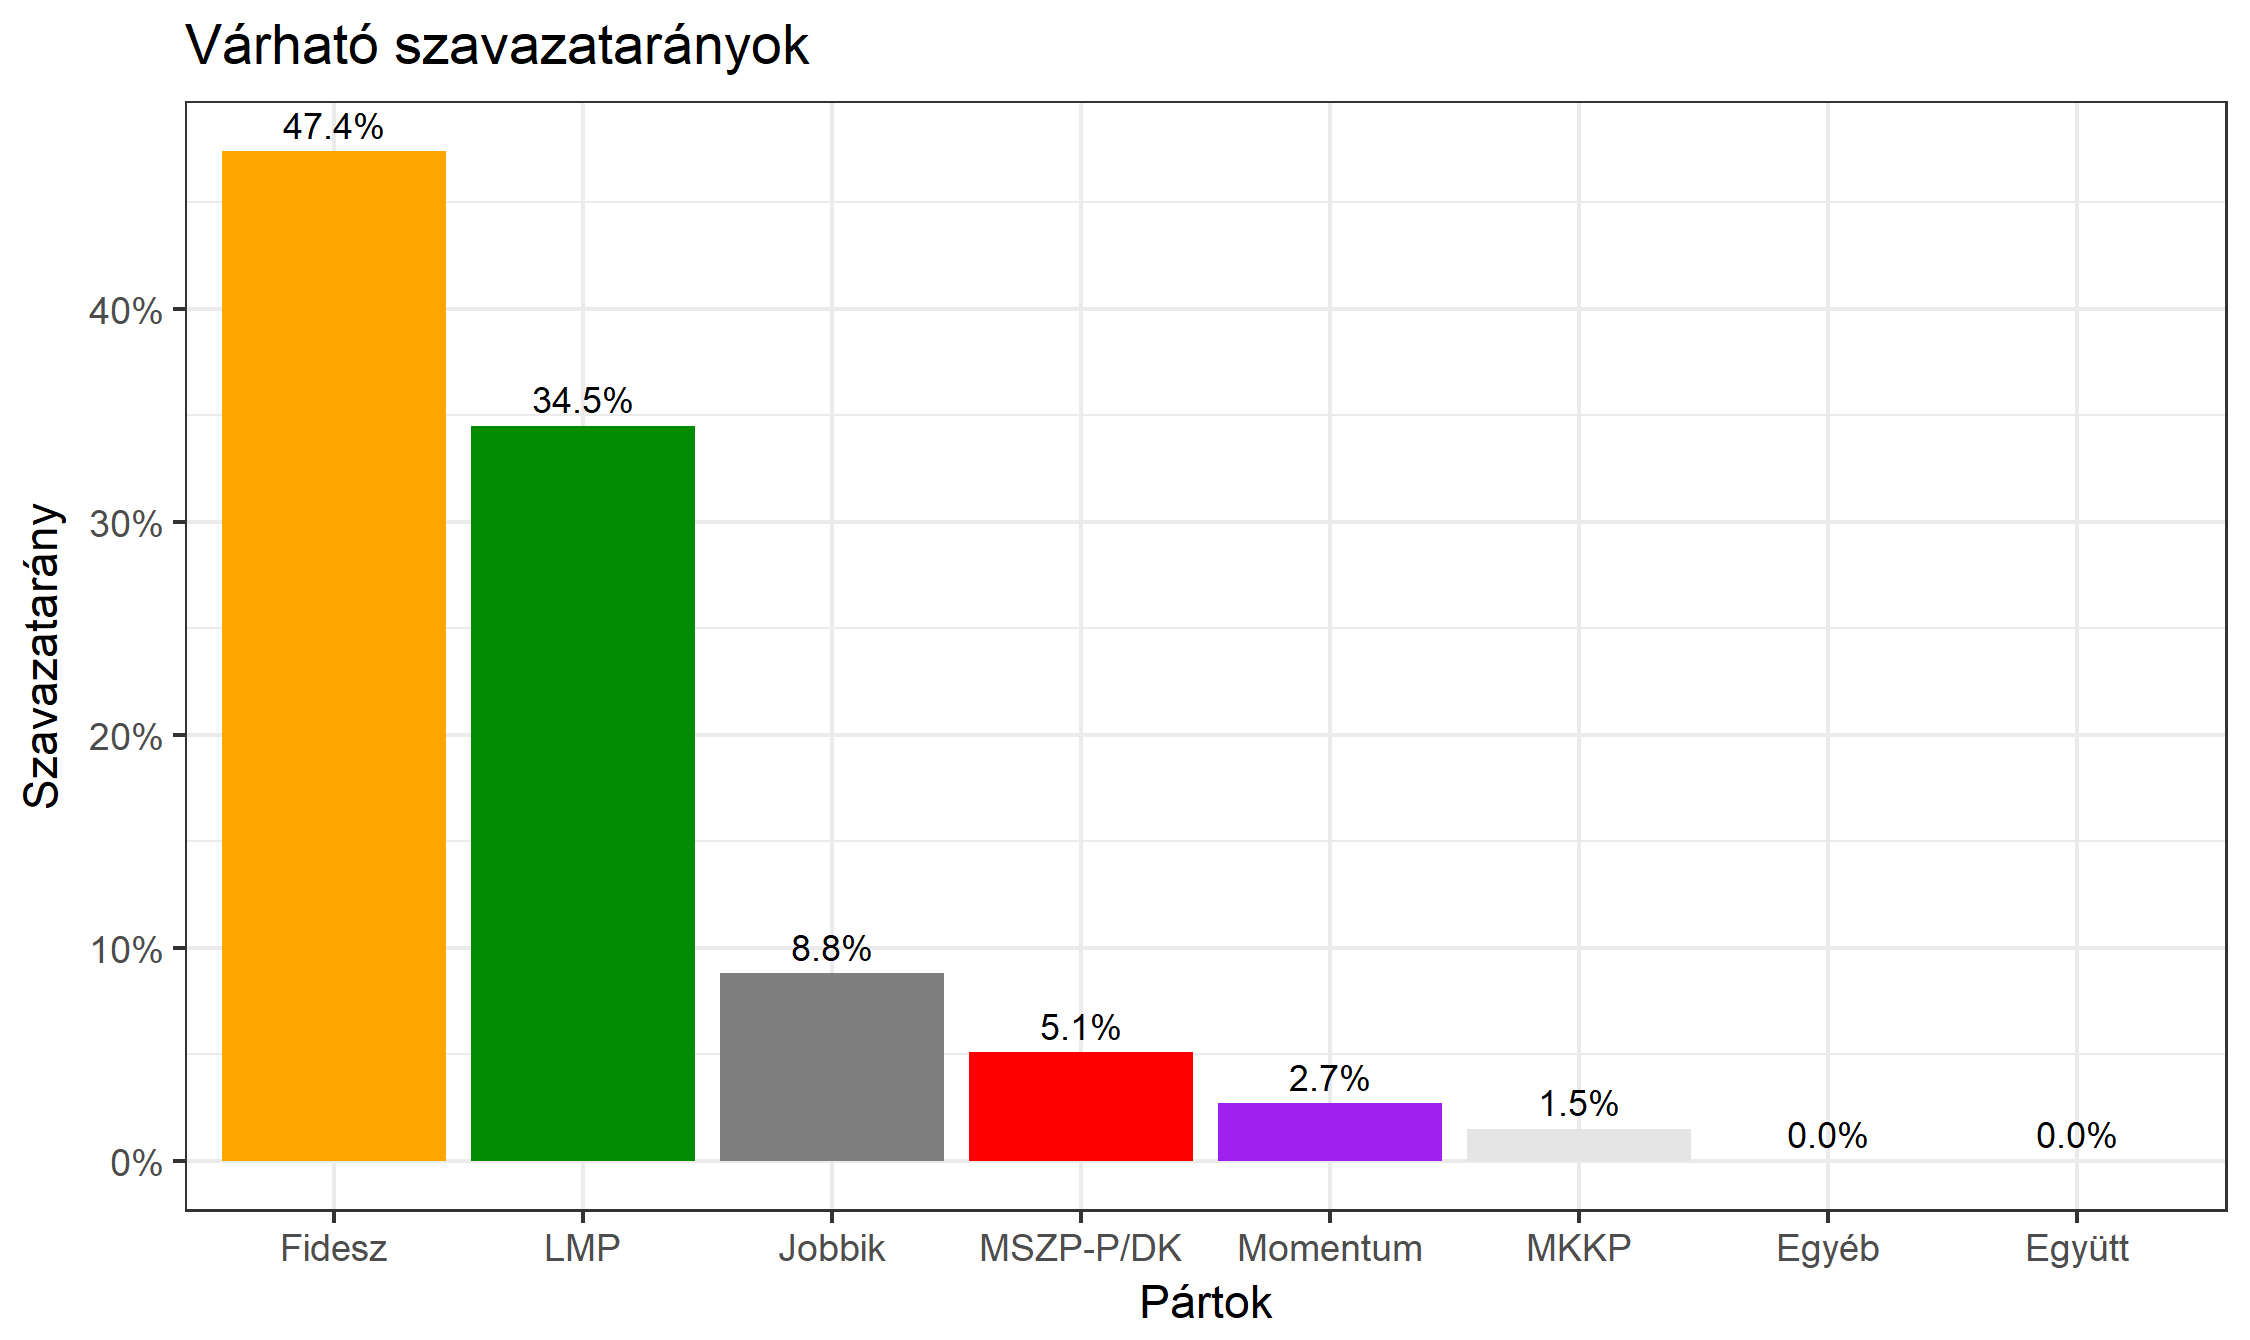
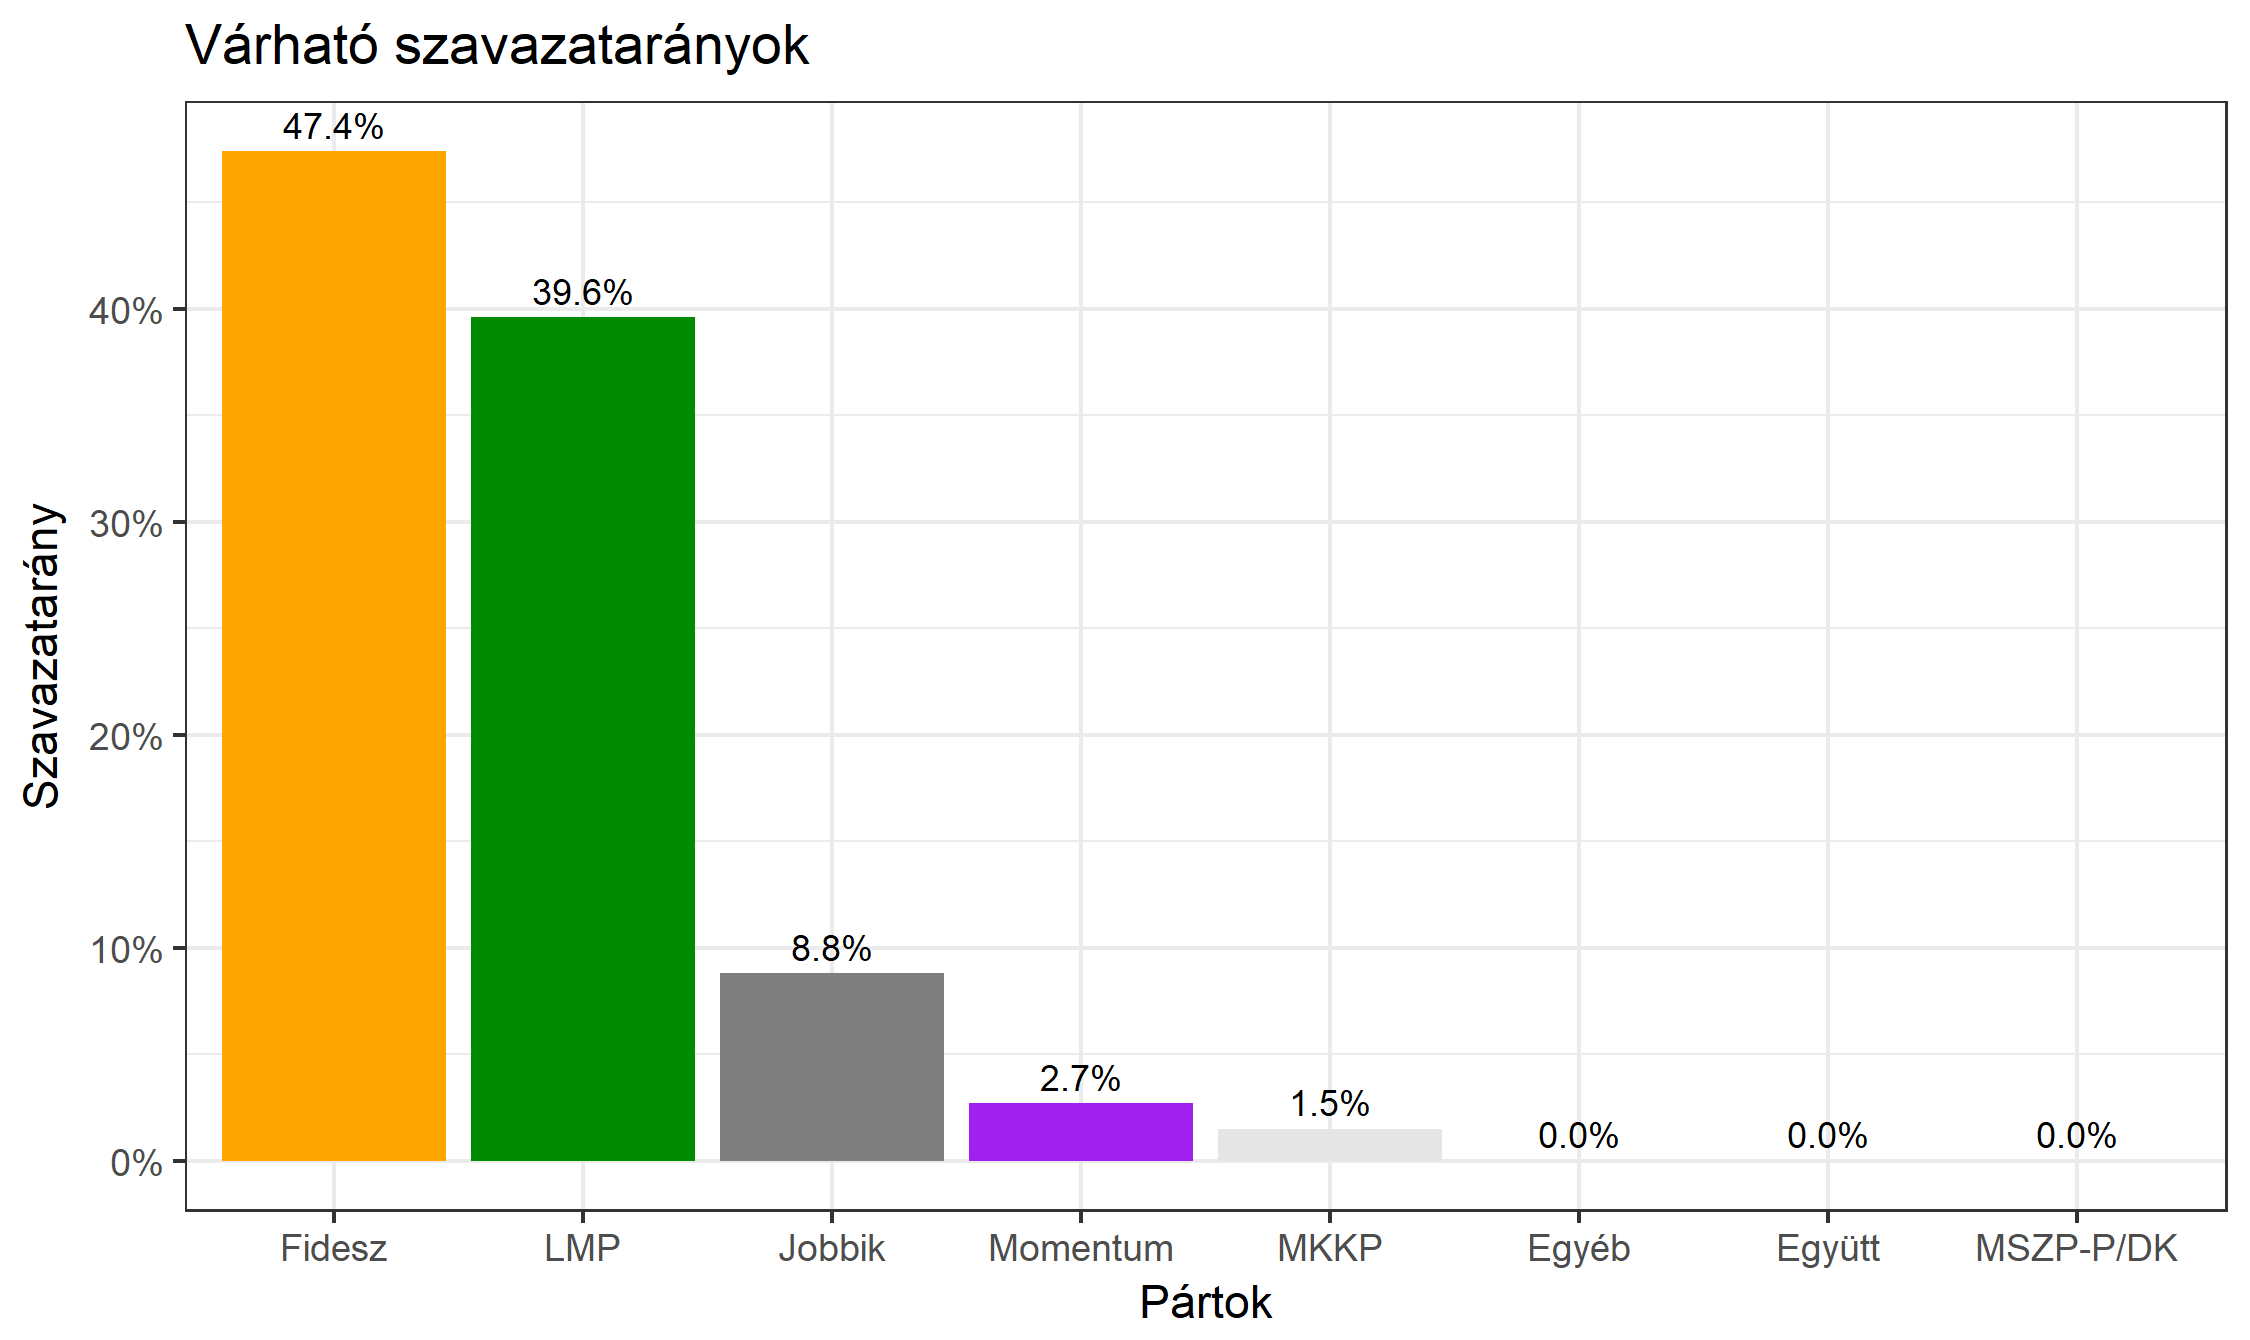
dk pe2 visszalep

diff --git a/pe2.md b/pe2.md
@@ -18,7 +18,7 @@ permalink: /pe2
               <thead>
                 <tr>
                     <th>Jelöltek</th>
-                    <th>Várható szavazatarány egyéniben (átszavazással)</th>
+                    <th>Várható szavazatarány egyéniben (átszavazással) - FRISSÍTVE</th>
                 </tr>
               </thead>
               <tbody>
@@ -28,12 +28,12 @@ permalink: /pe2
 			</tr>
 			<tr><td>Császárné Kollár Tímea - Jobbik <img src="images/jobbik_logo.png" style="width:23px;height:30px;"></td><td id="id_jobbik">8.8%</td></tr>
 <tr>
-                  <td>dr. Tóth Zoltán - DK <img src="images/dk_logo.png" style="width:34px;height:30px;"></td>
-				  <td id="id_baloldal">5.1%</td>
+                  <td><strong>VISSZALÉPETT</strong> - DK <img src="images/dk_logo.png" style="width:34px;height:30px;"></td>
+				  <td id="id_baloldal">__</td>
 			</tr>
 			<tr>
                   <td>dr. Szél Bernadett - LMP <img src="images/lmp_logo.png" style="width:52px;height:30px;"></td>
-				  <td id="lmp">34.5%</td>
+				  <td id="lmp">39.6%</td>
 			</tr>
 			<tr>
 				  <td>Szemző Áron - Momentum <img src="images/momentum_logo.png" style="width:44px;height:30px;"></td>

diff --git a/ba1.md b/ba1.md
@@ -40,11 +40,7 @@ permalink: /ba1
 			<tr>
 				  <td>Nemes Balázs - Momentum <img src="images/momentum_logo.png" style="width:44px;height:30px;"></td>
 				  <td id="id_momentum">5.1%</td>
-			</tr>
-<tr>
-<td>Együtt - visszalépett <img src="images/egyutt_logo2.png" style="width:71px;height:30px;"></td>
-<td id="id_egyutt">0.0%</td>
-</tr>            
+			</tr>           
 <tr>
 <td>Nagy Richárd - MKKP <img src="images/mkkp_logo.png" style="width:49px;height:30px;"></td>
 <td id="id_mkkp">2.3%</td>

diff --git a/bp5.md b/bp5.md
@@ -40,7 +40,7 @@ permalink: /bp5
 				  <td id="id_momentum">5.4%</td>
 			</tr>
 <tr>
-<td><strong>Visszalépett március 12-én</strong> -  Együtt <img src="images/egyutt_logo2.png" style="width:71px;height:30px;"></td>
+<td><strong>VISSZALÉPETT</strong> -  Együtt <img src="images/egyutt_logo2.png" style="width:71px;height:30px;"></td>
 <td id="id_egyutt">__</td>
 </tr>    
 <tr>
